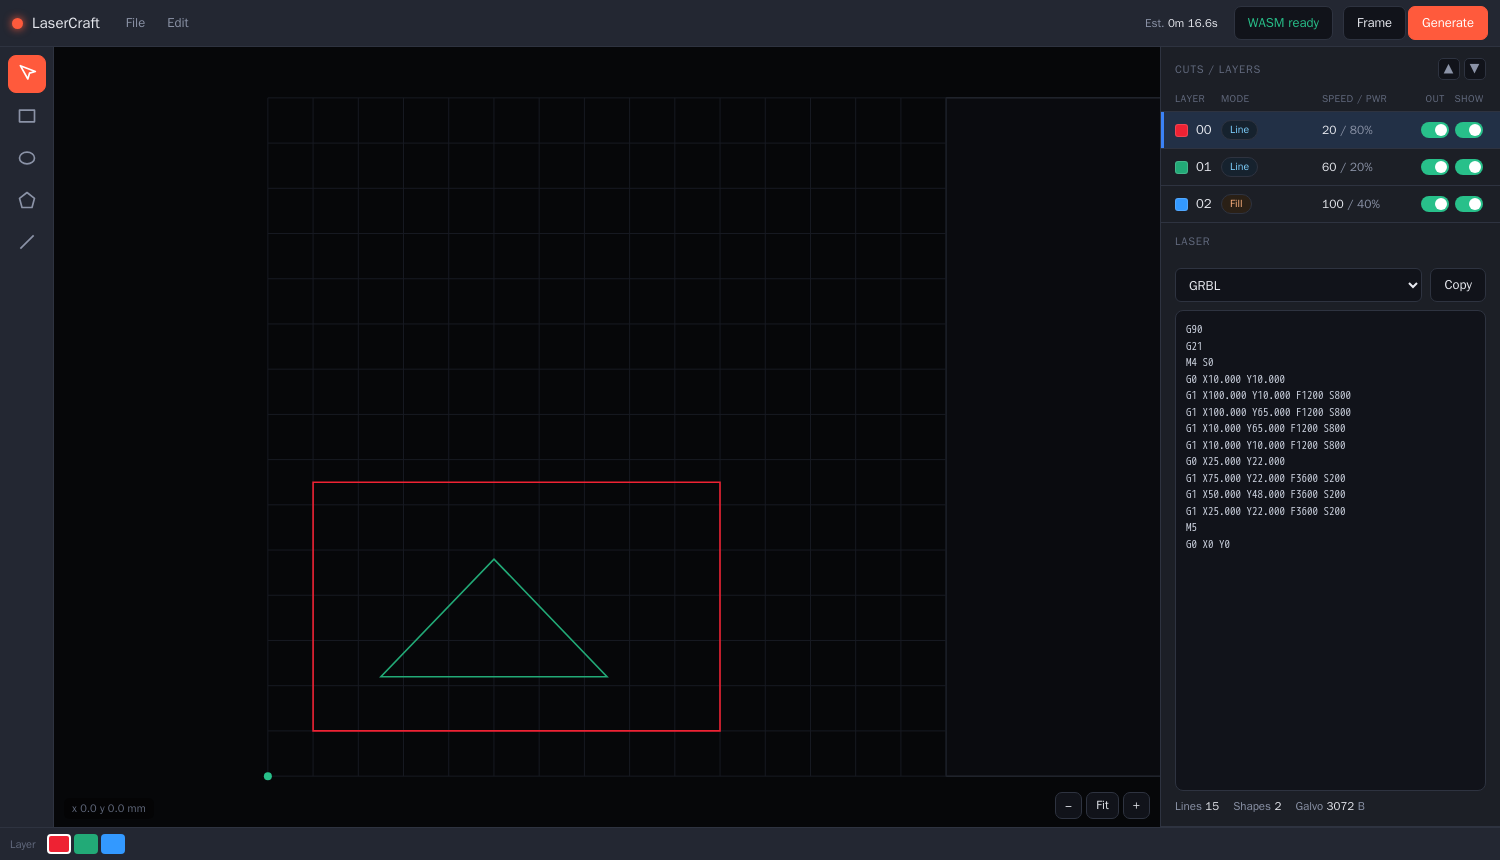
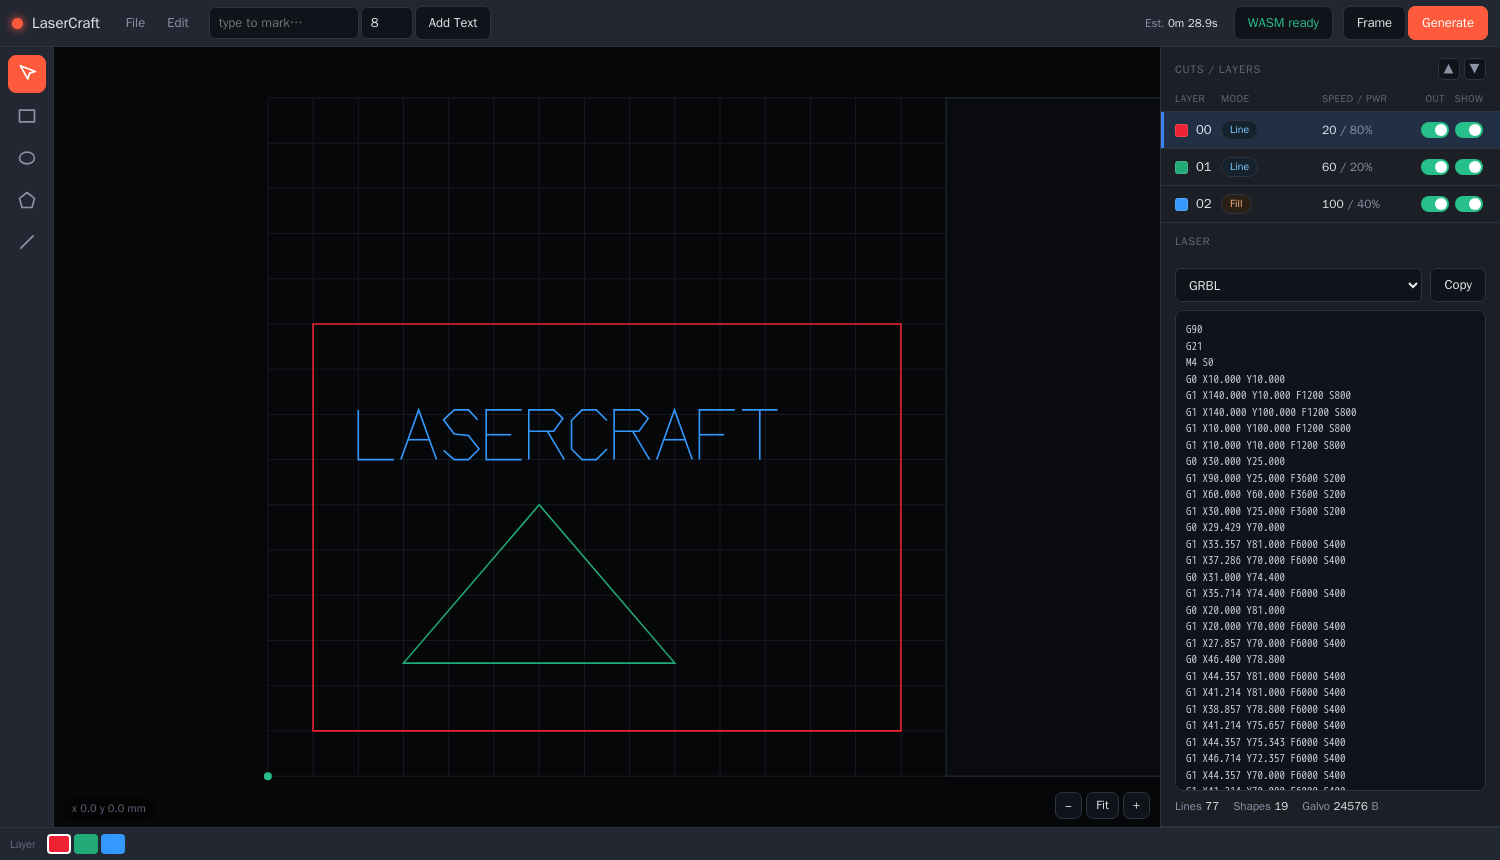
Add single-stroke text to the editor
Marking text is the main job of a fiber marker. The editor gains a single-stroke engraving font, the thin centre-line style a laser marks with. A toolbar field takes a string. A height field sets the size. Add Text lays the glyphs on the active layer. The font covers A to Z, 0 to 9, space and common punctuation. Each glyph becomes open paths the engine plans like any other geometry.

diff --git a/web/index.html b/web/index.html
@@ -124,6 +124,9 @@
     <span class="m" data-menu="edit">Edit
       <div class="dropdown"><div data-act="delete">Delete selected</div><div data-act="dupe">Duplicate</div></div>
     </span>
+    <input id="textIn" placeholder="type to mark…" style="width:150px;margin-left:8px" />
+    <input id="textH" type="number" value="8" step="1" title="height mm" style="width:52px" />
+    <button class="btn" id="addText">Add Text</button>
     <span class="spacer"></span>
     <span class="stat" style="margin-right:14px"><span>Est. <b id="est">&mdash;</b></span></span>
     <span class="btn ok" id="wasmok" style="margin-right:8px">loading&hellip;</span>
@@ -235,8 +238,8 @@
   let activeLayer = 0, tool = "select", selected = null, view = { s: 3.2, x: 40, y: 40 };
 
   // seed a couple of shapes so it is not empty
-  doc.shapes.push(rect(10, 10, 90, 55, 0));
-  doc.shapes.push(poly([[25,22],[75,22],[50,48]], true, 1));
+  doc.shapes.push(rect(10, 10, 130, 90, 0));
+  doc.shapes.push(poly([[30,25],[90,25],[60,60]], true, 1));
 
   function rect(x, y, w, h, cut) { return { kind: "Rect", cut_index: cut, geometry: { Polyline: { points: [p(x,y),p(x+w,y),p(x+w,y+h),p(x,y+h)], closed: true } } }; }
   function poly(pts, closed, cut) { return { kind: "Path", cut_index: cut, geometry: { Polyline: { points: pts.map(a=>p(a[0],a[1])), closed } } }; }
@@ -245,6 +248,63 @@
     return { kind: "Ellipse", cut_index: cut, geometry: { Polyline: { points: pts, closed: true } } };
   }
   function p(x,y){ return { x:+x.toFixed(3), y:+y.toFixed(3) }; }
+
+  // A single-stroke engraving font (grid x 0..5, y up 0..7). Each glyph is a list
+  // of open strokes. This is how laser tools mark text: thin centre-line paths.
+  const FONT = {
+    "A":[[[0,0],[2.5,7],[5,0]],[[1,2.8],[4,2.8]]],
+    "B":[[[0,0],[0,7],[3.5,7],[4.8,6],[4.8,4.4],[3.5,3.5],[0,3.5]],[[3.5,3.5],[4.8,2.6],[4.8,1],[3.5,0],[0,0]]],
+    "C":[[[5,5.5],[3.5,7],[1.5,7],[0,5.5],[0,1.5],[1.5,0],[3.5,0],[5,1.5]]],
+    "D":[[[0,0],[0,7],[3,7],[5,5],[5,2],[3,0],[0,0]]],
+    "E":[[[5,7],[0,7],[0,0],[5,0]],[[0,3.5],[3.5,3.5]]],
+    "F":[[[5,7],[0,7],[0,0]],[[0,3.5],[3.5,3.5]]],
+    "G":[[[5,5.5],[3.5,7],[1.5,7],[0,5.5],[0,1.5],[1.5,0],[3.5,0],[5,1.5],[5,3],[3,3]]],
+    "H":[[[0,0],[0,7]],[[5,0],[5,7]],[[0,3.5],[5,3.5]]],
+    "I":[[[1,7],[4,7]],[[2.5,7],[2.5,0]],[[1,0],[4,0]]],
+    "J":[[[4,7],[4,1.5],[2.8,0],[1.2,0],[0,1.3]]],
+    "K":[[[0,0],[0,7]],[[5,7],[0,3.5],[5,0]]],
+    "L":[[[0,7],[0,0],[5,0]]],
+    "M":[[[0,0],[0,7],[2.5,3.5],[5,7],[5,0]]],
+    "N":[[[0,0],[0,7],[5,0],[5,7]]],
+    "O":[[[1.5,0],[0,1.5],[0,5.5],[1.5,7],[3.5,7],[5,5.5],[5,1.5],[3.5,0],[1.5,0]]],
+    "P":[[[0,0],[0,7],[3.5,7],[4.8,5.8],[3.5,4],[0,4]]],
+    "Q":[[[1.5,0],[0,1.5],[0,5.5],[1.5,7],[3.5,7],[5,5.5],[5,1.5],[3.5,0],[1.5,0]],[[3,2],[5,-0.3]]],
+    "R":[[[0,0],[0,7],[3.5,7],[4.8,5.8],[3.5,4],[0,4]],[[2.6,4],[5,0]]],
+    "S":[[[4.8,5.6],[3.5,7],[1.5,7],[0,5.6],[1.5,3.6],[3.5,3.4],[5,1.5],[3.5,0],[1.5,0],[0,1.3]]],
+    "T":[[[0,7],[5,7]],[[2.5,7],[2.5,0]]],
+    "U":[[[0,7],[0,1.5],[1.5,0],[3.5,0],[5,1.5],[5,7]]],
+    "V":[[[0,7],[2.5,0],[5,7]]],
+    "W":[[[0,7],[1.2,0],[2.5,3.5],[3.8,0],[5,7]]],
+    "X":[[[0,0],[5,7]],[[0,7],[5,0]]],
+    "Y":[[[0,7],[2.5,3.5],[5,7]],[[2.5,3.5],[2.5,0]]],
+    "Z":[[[0,7],[5,7],[0,0],[5,0]]],
+    "0":[[[1.5,0],[0,1.5],[0,5.5],[1.5,7],[3.5,7],[5,5.5],[5,1.5],[3.5,0],[1.5,0]],[[1,1],[4,6]]],
+    "1":[[[1.2,5.5],[2.5,7],[2.5,0]],[[1,0],[4,0]]],
+    "2":[[[0,5.5],[1.5,7],[3.5,7],[5,5.5],[4.5,4],[0,0],[5,0]]],
+    "3":[[[0,6],[1.5,7],[3.5,7],[4.8,5.8],[3.5,3.9],[4.8,2],[3.5,0],[1.5,0],[0,1]],[[2.2,3.9],[3.5,3.9]]],
+    "4":[[[3.5,0],[3.5,7],[0,2.5],[5,2.5]]],
+    "5":[[[5,7],[0,7],[0,4],[3.5,4],[5,2.5],[3.5,0],[1.5,0],[0,1]]],
+    "6":[[[4.5,6],[3,7],[1.5,7],[0,5.5],[0,1.5],[1.5,0],[3.5,0],[5,1.5],[5,2.8],[3.5,4],[0.3,4]]],
+    "7":[[[0,7],[5,7],[2,0]]],
+    "8":[[[1.8,3.9],[0.3,5.3],[1.5,7],[3.5,7],[4.7,5.3],[3.2,3.9],[1.8,3.9]],[[1.8,3.9],[0,2.2],[1.5,0],[3.5,0],[5,2.2],[3.2,3.9]]],
+    "9":[[[0.5,1],[2,0],[3.5,0],[5,1.5],[5,5.5],[3.5,7],[1.5,7],[0,5.5],[0,4.2],[1.5,3],[4.7,3]]],
+    " ":[],"-":[[[1,3.3],[4,3.3]]],"_":[[[0,0],[5,0]]],".":[[[2.1,0],[2.6,0],[2.6,0.5],[2.1,0.5],[2.1,0]]],
+    ",":[[[2.4,0.6],[2.1,-0.6]]],"/":[[[0,0],[5,7]]],"#":[[[1.2,0],[1.8,7]],[[3.2,0],[3.8,7]],[[0.3,2.3],[4.7,2.3]],[[0.3,4.7],[4.7,4.7]]],
+    ":":[[[2.2,1.3],[2.7,1.3],[2.7,1.8],[2.2,1.8],[2.2,1.3]],[[2.2,3.8],[2.7,3.8],[2.7,4.3],[2.2,4.3],[2.2,3.8]]],
+    "?":[[[0,5.5],[1.5,7],[3.5,7],[5,5.5],[3.5,3.8],[2.5,3.3],[2.5,2]],[[2.5,0.5],[2.5,0]]],
+  };
+  function textShapes(str, ox, oy, h, cut){
+    const sc = h/7, adv = 6*sc, out = [];
+    let cx = ox;
+    for (const ch of (str||"").toUpperCase()){
+      const g = FONT[ch] || FONT["?"];
+      for (const stroke of g){ if (stroke.length>=2) out.push({ kind:"Path", cut_index:cut, geometry:{ Polyline:{ points: stroke.map(a=>p(cx+a[0]*sc, oy+a[1]*sc)), closed:false } } }); }
+      cx += adv;
+    }
+    return out;
+  }
+  // seed a text sample on the engrave layer so the feature is visible on load
+  doc.shapes.push(...textShapes("LASERCRAFT", 20, 70, 11, 2));
 
   // ---- toolbar ----
   const TOOLS = [
@@ -425,6 +485,14 @@
     } catch(e){ $("gcode").textContent = String(e); }
   }
   function refreshCounts(){ renderLayers(); generate(); }
+
+  $("addText").onclick = () => {
+    const str = $("textIn").value.trim(); if (!str) return;
+    const h = +$("textH").value || 8;
+    const shapes = textShapes(str, 20, BED.h/2, h, doc.layers[activeLayer].index);
+    doc.shapes.push(...shapes); selected = null; render(); refreshCounts();
+  };
+  $("textIn").addEventListener("keydown", e => { if (e.key === "Enter") $("addText").click(); });
 
   $("genBtn").onclick = generate;
   $("frameBtn").onclick = () => { if(!ready) return; try { $("gcode").textContent = generate_frame(JSON.stringify(toProject()), "hull", isGalvo()?"grbl":$("flavor").value); } catch(e){ $("gcode").textContent=String(e); } };
